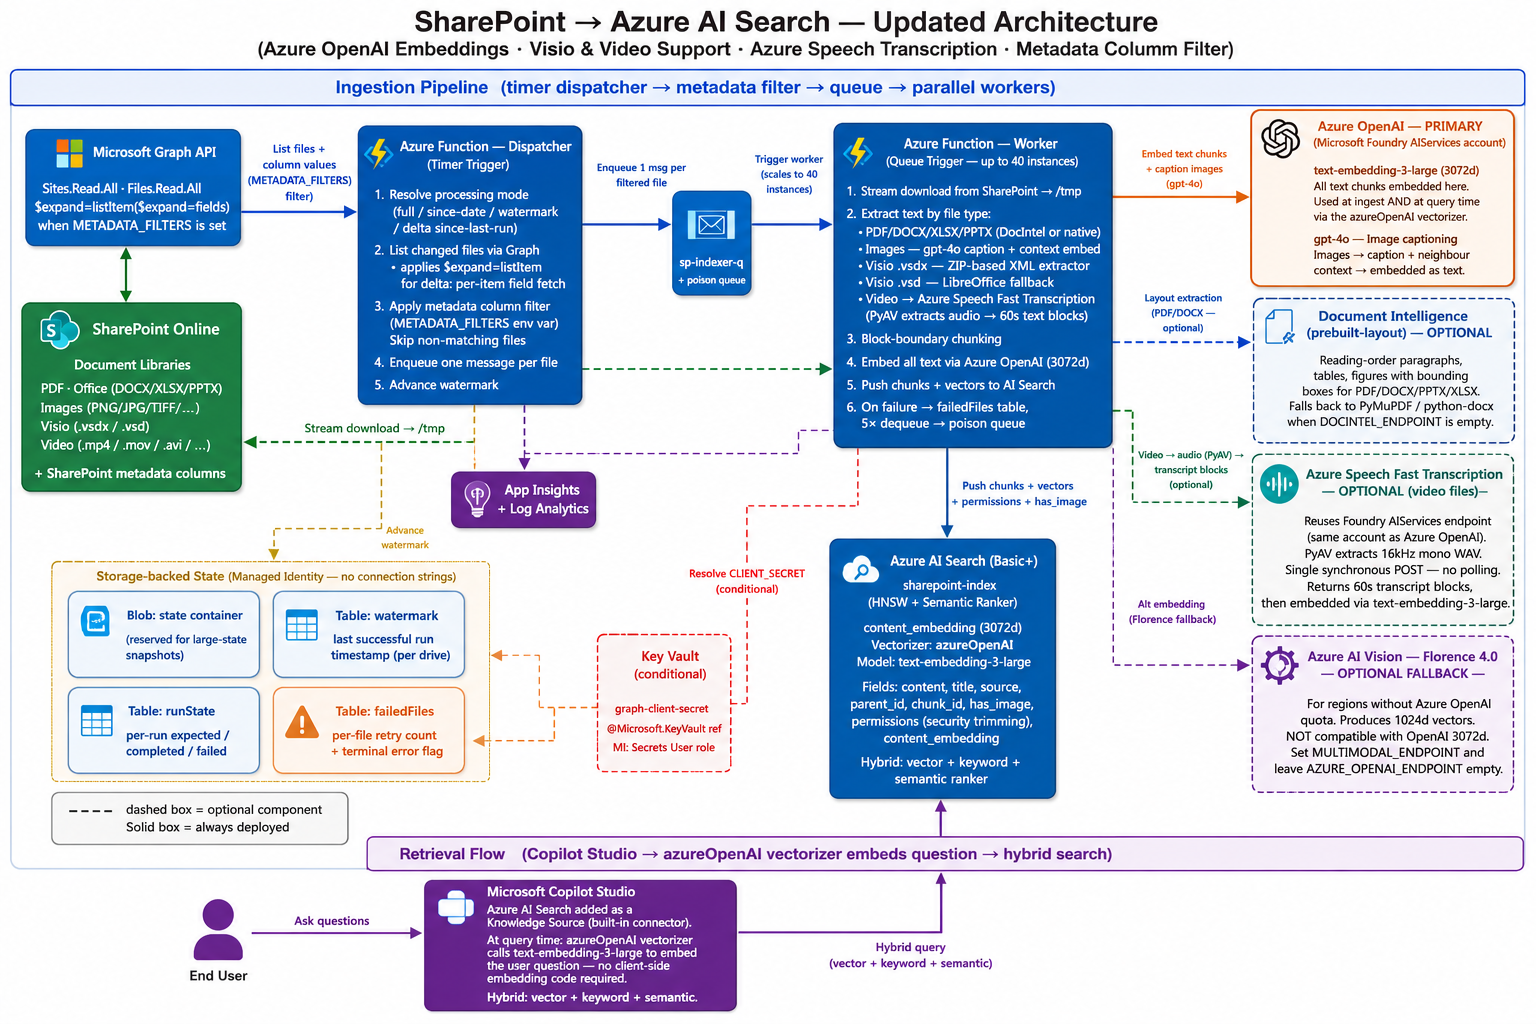
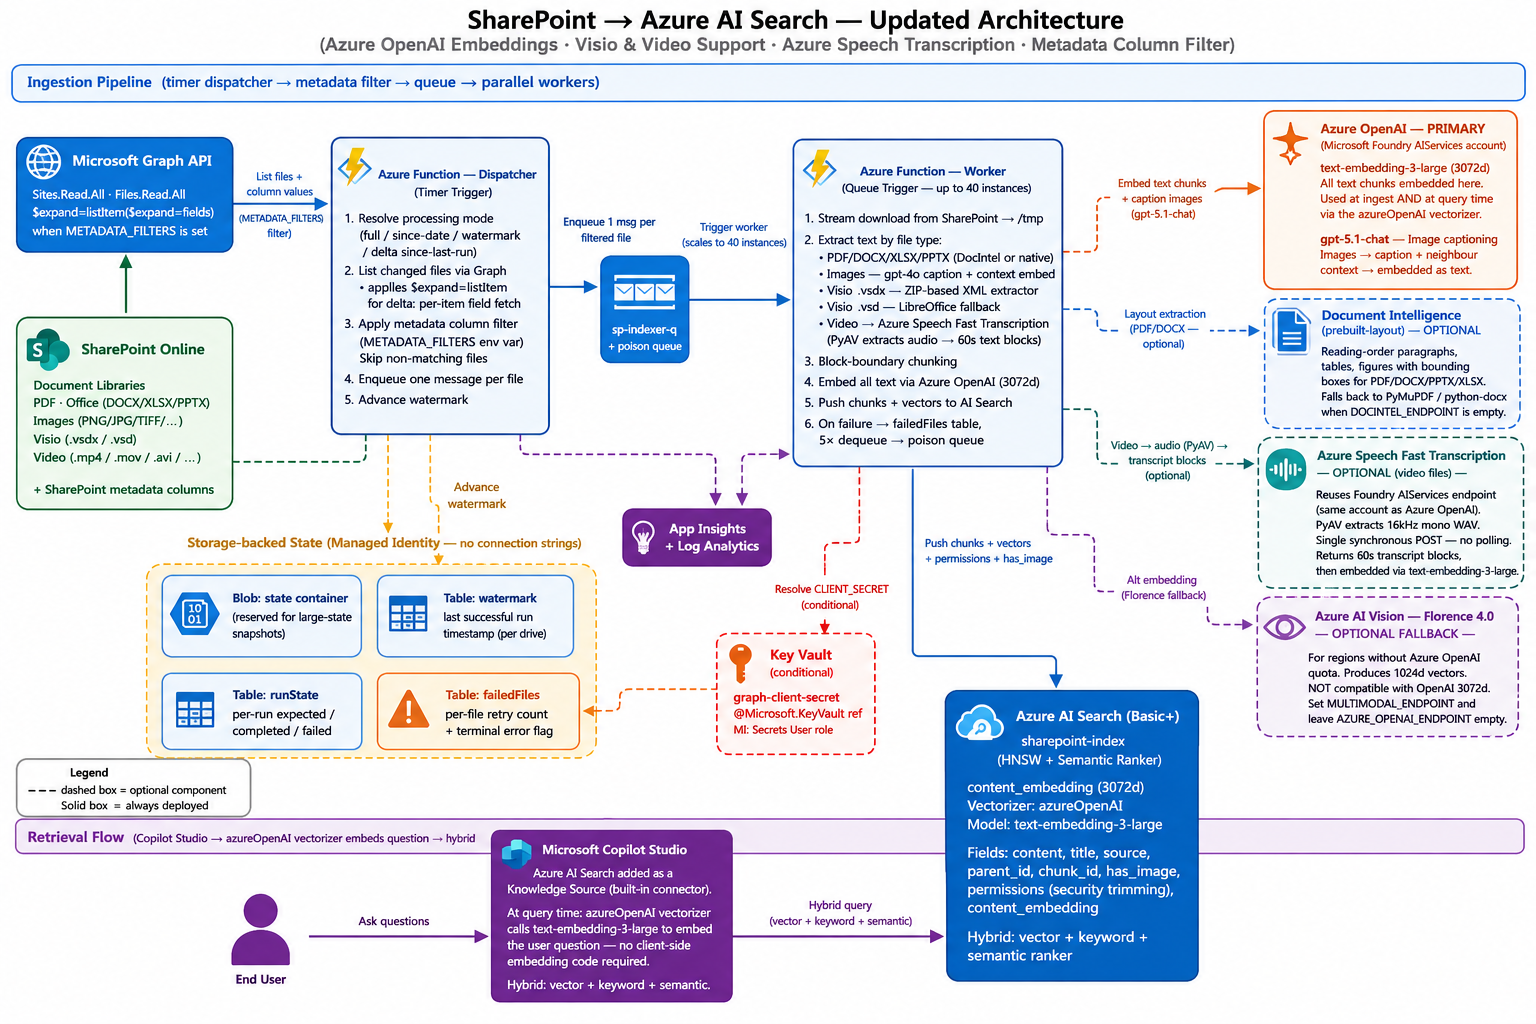
Switch image captioning to gpt-5.1-chat
Replace gpt-4o with the newer gpt-5.1-chat multimodal model across docs, infra and deployment artifacts. Updates include README text, deploy/azuredeploy.json (visionModelName/version/deploymentName), infra/main.bicep (visionModelName, visionModelVersion, visionDeploymentName and explanatory comment), and updated architecture diagram and PNG. Embedding model (text-embedding-3-large) and other pipeline details remain unchanged. This migrates image captioning to the current-gen multimodal chat model (GlobalStandard availability in Canada Central) and keeps the repo consistent.

diff --git a/sharepoint-connector/README.md b/sharepoint-connector/README.md
@@ -38,7 +38,7 @@ This accelerator aims to overcome the [SharePoint knowledge source](https://lear
 
 Ship a push-model SharePoint → Azure AI Search connector that a Copilot Studio agent can query over a **unified multimodal index** (text + image content in the same vector space), from a **well-defined subset** of a SharePoint site, with **deletion propagation**, **nightly backups**, and **least-privilege Graph access** — all running as a serverless Azure Function.
 
-Azure AI Search's [SharePoint connector (preview)](https://docs.azure.cn/en-us/search/search-howto-index-sharepoint-online) has real limitations: no private endpoint support, no Conditional Access compatibility, no SLA, and limited control over the extraction pipeline. This accelerator is a worked example of how to build a custom push pipeline that gives you all of that control while still using the latest Azure services under the hood (Azure OpenAI `text-embedding-3-large` embeddings + `gpt-4o` image captioning, Document Intelligence Layout, Copilot Studio's built-in generative orchestration).
+Azure AI Search's [SharePoint connector (preview)](https://docs.azure.cn/en-us/search/search-howto-index-sharepoint-online) has real limitations: no private endpoint support, no Conditional Access compatibility, no SLA, and limited control over the extraction pipeline. This accelerator is a worked example of how to build a custom push pipeline that gives you all of that control while still using the latest Azure services under the hood (Azure OpenAI `text-embedding-3-large` embeddings + `gpt-5.1-chat` image captioning, Document Intelligence Layout, Copilot Studio's built-in generative orchestration).
 
 ---
 
@@ -67,7 +67,7 @@ Additional feature extensions like **Per-user security trimming** are shared und
 Editable source (open in [draw.io](https://app.diagrams.net) or the VS Code Draw.io extension):
 - [images/sharepoint-connector-architecture-updated.drawio](images/sharepoint-connector-architecture-updated.drawio) — **current** diagram reflecting Azure OpenAI embeddings, Visio support, Azure Speech Fast Transcription for video, and the Metadata Column Filter.
 
-**Flow at a glance (default deployment).** The dispatcher (timer) asks SharePoint (via Graph `/delta`) what's changed, applies the configured **metadata column filter** (`METADATA_FILTERS`), enqueues one message per matching file onto Storage Queue, and advances the per-drive delta token. Queue workers scale out: each pulls a message, streams the file to tempfile, routes by file type — Visio `.vsdx` files through a ZIP-based XML extractor (`.vsd` via LibreOffice), documents through Document Intelligence Layout (if enabled) or the fallback extractors, standalone images captioned by **`gpt-4o`**, video files transcribed by **Azure Speech Fast Transcription** (PyAV extracts audio in-memory; a single synchronous REST call returns timestamped transcripts, grouped into `~60 s` blocks) — all text chunks are then embedded via **Azure OpenAI `text-embedding-3-large` (3072d)**, image crops uploaded to blob for citation thumbnails, and chunks (with `permission_ids`) pushed into the AI Search index. A Copilot Studio agent then queries that index directly via the **built-in Azure AI Search Knowledge Source** connector — the registered `azureOpenAI` vectorizer embeds queries server-side using `text-embedding-3-large` — vector + keyword + semantic ranker, no client-side embedding code — and grounds its responses on the retrieved chunks.
+**Flow at a glance (default deployment).** The dispatcher (timer) asks SharePoint (via Graph `/delta`) what's changed, applies the configured **metadata column filter** (`METADATA_FILTERS`), enqueues one message per matching file onto Storage Queue, and advances the per-drive delta token. Queue workers scale out: each pulls a message, streams the file to tempfile, routes by file type — Visio `.vsdx` files through a ZIP-based XML extractor (`.vsd` via LibreOffice), documents through Document Intelligence Layout (if enabled) or the fallback extractors, standalone images captioned by **`gpt-5.1-chat`**, video files transcribed by **Azure Speech Fast Transcription** (PyAV extracts audio in-memory; a single synchronous REST call returns timestamped transcripts, grouped into `~60 s` blocks) — all text chunks are then embedded via **Azure OpenAI `text-embedding-3-large` (3072d)**, image crops uploaded to blob for citation thumbnails, and chunks (with `permission_ids`) pushed into the AI Search index. A Copilot Studio agent then queries that index directly via the **built-in Azure AI Search Knowledge Source** connector — the registered `azureOpenAI` vectorizer embeds queries server-side using `text-embedding-3-large` — vector + keyword + semantic ranker, no client-side embedding code — and grounds its responses on the retrieved chunks.
 
 > **Per-user security trimming is NOT enabled by default.** Every authenticated user of the agent sees every chunk in the index. To enforce SharePoint ACLs at query time (so users only see citations from documents they actually have access to), follow **[Extending with Per-User Security Trimming](#extending-with-per-user-security-trimming)** at the end of this document — that opt-in adds an `/api/search` Function App endpoint, an Entra app registration, and a Power Platform connection, and replaces the direct AI Search → Copilot Studio link with an HTTP action that flows the signed-in user's delegated token.
 
@@ -101,7 +101,7 @@ No local Python, `uv`, or `func` CLI needed — the function code is pulled from
 
 #### What the template creates
 
-Storage Account (with queue / table / blob containers), Log Analytics + Application Insights, **Azure AI Search (Basic)**, **Microsoft Foundry / Azure AI Services** multi-service (hosts **Azure OpenAI `text-embedding-3-large`** embeddings + **`gpt-4o`** image captioning model deployments + **Azure Speech Fast Transcription** for video files — all three share the same endpoint and managed-identity RBAC role), **Document Intelligence** (Layout), **Key Vault**, Flex Consumption plan, and the Function App — plus every RBAC assignment on the Function's managed identity. No "pre-existing resource" paste-in.
+Storage Account (with queue / table / blob containers), Log Analytics + Application Insights, **Azure AI Search (Basic)**, **Microsoft Foundry / Azure AI Services** multi-service (hosts **Azure OpenAI `text-embedding-3-large`** embeddings + **`gpt-5.1-chat`** image captioning model deployments + **Azure Speech Fast Transcription** for video files — all three share the same endpoint and managed-identity RBAC role), **Document Intelligence** (Layout), **Key Vault**, Flex Consumption plan, and the Function App — plus every RBAC assignment on the Function's managed identity. No "pre-existing resource" paste-in.
 
 In addition, the template **always** creates a tiny dedicated storage account named `<baseName>ds<hash>` (suffix `ds` = "deployment scripts"), tagged `purpose=arm-deployment-scripts`, with `allowSharedKeyAccess: true`. The two ARM `deploymentScripts` (`createSearchIndex`, `publishCode`) need a key-enabled storage account to upload their script payload — without this, deployment fails with `KeyBasedAuthenticationNotPermitted` in tenants that enforce the *"Storage accounts should prevent shared key access"* Azure Policy. If your tenant has that policy in Deny mode, add a single **policy exemption** scoped to resources matching `tags['purpose'] == 'arm-deployment-scripts'` (or scope the exemption to this one resource by name). The application data path (the main storage account, BYO or template-created) does **not** rely on shared keys — only this small `*ds*` account does.
 
@@ -131,7 +131,7 @@ The template asks for **two values** — everything else is inferred, defaulted,
 |---|---|---|
 | `baseName` | ✅ | Resource-name prefix (3–16 chars). **Lowercase a–z, 0–9, hyphens only** — no spaces, underscores, dots, or uppercase. The template fails fast (synthetic resource names containing `INVALID-baseName-…`) if any disallowed character is present. A uniqueness hash is appended for globally-unique resources. |
 | `sharePointSiteUrl` | ✅ | Full URL of the SharePoint site to monitor. |
-| `location` | optional | Azure region (default `resourceGroup().location`). Azure OpenAI (`text-embedding-3-large` / `gpt-4o`) is available in Canada Central and most Azure regions — check [Microsoft Learn](https://learn.microsoft.com/en-us/azure/ai-services/openai/concepts/models) for the latest availability. |
+| `location` | optional | Azure region (default `resourceGroup().location`). Azure OpenAI (`text-embedding-3-large` / `gpt-5.1-chat`) is available in Canada Central and most Azure regions — check [Microsoft Learn](https://learn.microsoft.com/en-us/azure/ai-services/openai/concepts/models) for the latest availability. |
 | `enableSecurityTrimming` | optional | **Default `false`** — Copilot Studio queries AI Search directly. Flip to `true` only as part of the [Extending with Per-User Security Trimming](#extending-with-per-user-security-trimming) walkthrough. |
 | `speechLocale` | optional | BCP-47 locale for Azure Speech video transcription (default `en-US`). Adjust to the primary spoken language in your video content (e.g. `fr-FR`, `es-ES`). Video files are always included in `INDEXED_EXTENSIONS`; remove the video extensions from that app setting post-deploy to disable video indexing entirely. |
 | `apiAudience` | optional | Used **only** when `enableSecurityTrimming = true`. Supply a pre-created Entra app clientId (GUID or `api://<guid>`) when the deployer lacks `Application Administrator`; leave empty otherwise. |
@@ -146,7 +146,7 @@ Handled by the template itself:
 
 [![Deploy to Azure](https://aka.ms/deploytoazurebutton)](https://portal.azure.com/#create/Microsoft.Template/uri/https%3A%2F%2Fraw.githubusercontent.com%2Fgokseloral%2Fsharepoint-multimodal-rag%2Fmaster%2Fsharepoint-connector%2Fdeploy%2Fazuredeploy.json)
 
-Clicking the button opens the Azure portal's custom-deployment form. Fill in the two required values (`baseName`, `sharePointSiteUrl`) — leave the rest at their defaults. The template provisions **everything** — Storage Account (+ queue / table / containers), Log Analytics + App Insights, Azure AI Search (Basic), Microsoft Foundry / Azure AI Services multi-service (hosts Azure OpenAI `text-embedding-3-large` + `gpt-4o` model deployments), Document Intelligence (Layout), Key Vault, Flex Consumption plan + Function App, and every RBAC assignment on the Function's managed identity. It also **pulls the latest CI-built function-app package** from GitHub Releases (`sharepoint-connector-latest`) via an ARM `deploymentScript` and writes it to the Function App's storage container — so the code is already running when the deployment finishes. No `func publish` step.
+Clicking the button opens the Azure portal's custom-deployment form. Fill in the two required values (`baseName`, `sharePointSiteUrl`) — leave the rest at their defaults. The template provisions **everything** — Storage Account (+ queue / table / containers), Log Analytics + App Insights, Azure AI Search (Basic), Microsoft Foundry / Azure AI Services multi-service (hosts Azure OpenAI `text-embedding-3-large` + `gpt-5.1-chat` model deployments), Document Intelligence (Layout), Key Vault, Flex Consumption plan + Function App, and every RBAC assignment on the Function's managed identity. It also **pulls the latest CI-built function-app package** from GitHub Releases (`sharepoint-connector-latest`) via an ARM `deploymentScript` and writes it to the Function App's storage container — so the code is already running when the deployment finishes. No `func publish` step.
 
 After the ARM deployment succeeds, four manual steps remain — all can be completed by an admin in under 15 minutes. Steps 1, 2 and 3 are **all required** for the Function App's managed identity to actually read your SharePoint site AND download document content (skipping any one yields a `401` or `403` from Microsoft Graph at indexer-run time — see Troubleshooting **S6**).
 
@@ -307,7 +307,7 @@ Every operational knob lives as an **app setting** on the Function App — chang
 | `PROCESSING_MODE` | `since-last-run` | `full` for cleanup; `since-date` + `START_DATE` for historical backfills. |
 | `VECTORISE_CONCURRENCY` / `MULTIMODAL_MAX_IN_FLIGHT` | `8` / `8` | Raise for faster initial bulk loads (subject to Azure OpenAI TPM quota). |
 | `AZURE_OPENAI_EMBEDDING_MODEL` | `text-embedding-3-large` | Override if you deploy under a different deployment name. |
-| `AZURE_OPENAI_VISION_MODEL` | `gpt-4o` | Override if you deploy under a different deployment name. Set empty to skip image captioning (images will be indexed only if neighbour text is available). |
+| `AZURE_OPENAI_VISION_MODEL` | `gpt-5.1-chat` | Override if you deploy under a different deployment name. Set empty to skip image captioning (images will be indexed only if neighbour text is available). |
 | `SPEECH_LOCALE` | `en-US` | BCP-47 locale for Azure Speech Fast Transcription. Change to match the primary spoken language of your video content. Video files are skipped if the video extensions are removed from `INDEXED_EXTENSIONS`. |
 | `BACKUP_SCHEDULE` / `BACKUP_RETENTION_DAYS` | `0 0 3 * * *` / `7` | Adjust nightly backup cadence + retention. |
 
@@ -321,14 +321,14 @@ See the **[Extension Guide](#extension-guide)** for the complete list + recipes.
 
 If you don't have representative SharePoint content yet, Microsoft publishes a public corpus you can upload to your test site to exercise the pipeline end-to-end:
 
-- **[Azure-Samples / azure-search-sample-data](https://github.com/Azure-Samples/azure-search-sample-data)** — mixed PDFs, DOCX, HTML, JSON, and image files covering real retrieval scenarios (healthcare PDFs, financial reports, hotel descriptions, NASA earth-at-night imagery, etc.). Drop any of these folders into the SharePoint document library the connector is pointing at and they'll flow through the full pipeline (text extraction, image captioning via Azure OpenAI `gpt-4o`, embedding via `text-embedding-3-large`, permission-filtered retrieval).
+- **[Azure-Samples / azure-search-sample-data](https://github.com/Azure-Samples/azure-search-sample-data)** — mixed PDFs, DOCX, HTML, JSON, and image files covering real retrieval scenarios (healthcare PDFs, financial reports, hotel descriptions, NASA earth-at-night imagery, etc.). Drop any of these folders into the SharePoint document library the connector is pointing at and they'll flow through the full pipeline (text extraction, image captioning via Azure OpenAI `gpt-5.1-chat`, embedding via `text-embedding-3-large`, permission-filtered retrieval).
 
 Recommended starter set for a quick smoke test:
 
 | Folder in the repo | Why it's useful here |
 |---|---|
 | `health-plan/` | Small set of short PDFs — fast to ingest, exercises Document Intelligence Layout. |
-| `hotel-reviews-images/` | Standalone JPGs — exercises `gpt-4o` image captioning + `text-embedding-3-large` embedding and the `content_path` / image-citation flow. |
+| `hotel-reviews-images/` | Standalone JPGs — exercises `gpt-5.1-chat` image captioning + `text-embedding-3-large` embedding and the `content_path` / image-citation flow. |
 | `nasa-e-book/` | Large-ish PDF with embedded figures — exercises Layout's figure extraction + neighbour-text chunking. |
 | `hotels/` | JSON/HTML — exercises the plain-text path (extractors that bypass DocIntel). |
 
@@ -534,7 +534,7 @@ Sanity tests with two users — User A who has SharePoint access to a confidenti
 
 ### Change the Embedding Model
 
-The accelerator uses **Azure OpenAI `text-embedding-3-large` (3072d)** as the primary embedding model, with **`gpt-4o`** for image captioning. Both are deployed as model deployments on the Foundry AIServices account. Swap paths:
+The accelerator uses **Azure OpenAI `text-embedding-3-large` (3072d)** as the primary embedding model, with **`gpt-5.1-chat`** for image captioning. Both are deployed as model deployments on the Foundry AIServices account. Swap paths:
 
 - **Different Azure OpenAI embedding model** → change the `embeddingModelName` / `embeddingDeploymentName` / `embeddingDimensions` vars in [infra/main.bicep](infra/main.bicep) and re-run `deploy.ps1`. If the dimension changes (e.g. switching from 3072d to 1536d), follow the destructive-recreate workflow under [Change the Search Index Schema](#change-the-search-index-schema) — AI Search rejects in-place dimension changes.
 - **Different vision model for image captioning** → change the `visionModelName` / `visionDeploymentName` vars in [infra/main.bicep](infra/main.bicep) and update `AZURE_OPENAI_VISION_MODEL` app setting. No index changes required.
@@ -945,7 +945,7 @@ The concrete requirements this accelerator was designed to meet, and how each is
 |---|---|---|
 | 1 | Process all files OR since a configured date OR since last successful run | `PROCESSING_MODE` env var: `full` / `since-date` / `since-last-run` (default) with persistent watermark + delta tokens. |
 | 2 | Scale past 50 files per run | Queue-fed fan-out: timer dispatcher enqueues one message per file; queue-triggered workers scale to 40 instances. |
-| 3 | Multimodal RAG for text- and image-heavy documents | Azure OpenAI `text-embedding-3-large` (3072d) for all text and image chunks; `gpt-4o` generates image captions before embedding; optional Document Intelligence Layout for structural extraction. |
+| 3 | Multimodal RAG for text- and image-heavy documents | Azure OpenAI `text-embedding-3-large` (3072d) for all text and image chunks; `gpt-5.1-chat` generates image captions before embedding; optional Document Intelligence Layout for structural extraction. |
 | 4 | Semantic indexing | Azure AI Search `semanticConfiguration` with HNSW vector + hybrid query. |
 | 5 | Large files >200 MB | Streaming download to tempfile; path-based extractors (PyMuPDF, python-docx/pptx, openpyxl read-only); default cap 500 MB. |
 | 6 | Scope to one site / folder / library | `SHAREPOINT_SITE_URL` + `SHAREPOINT_LIBRARIES` + `SHAREPOINT_ROOT_PATHS`. |